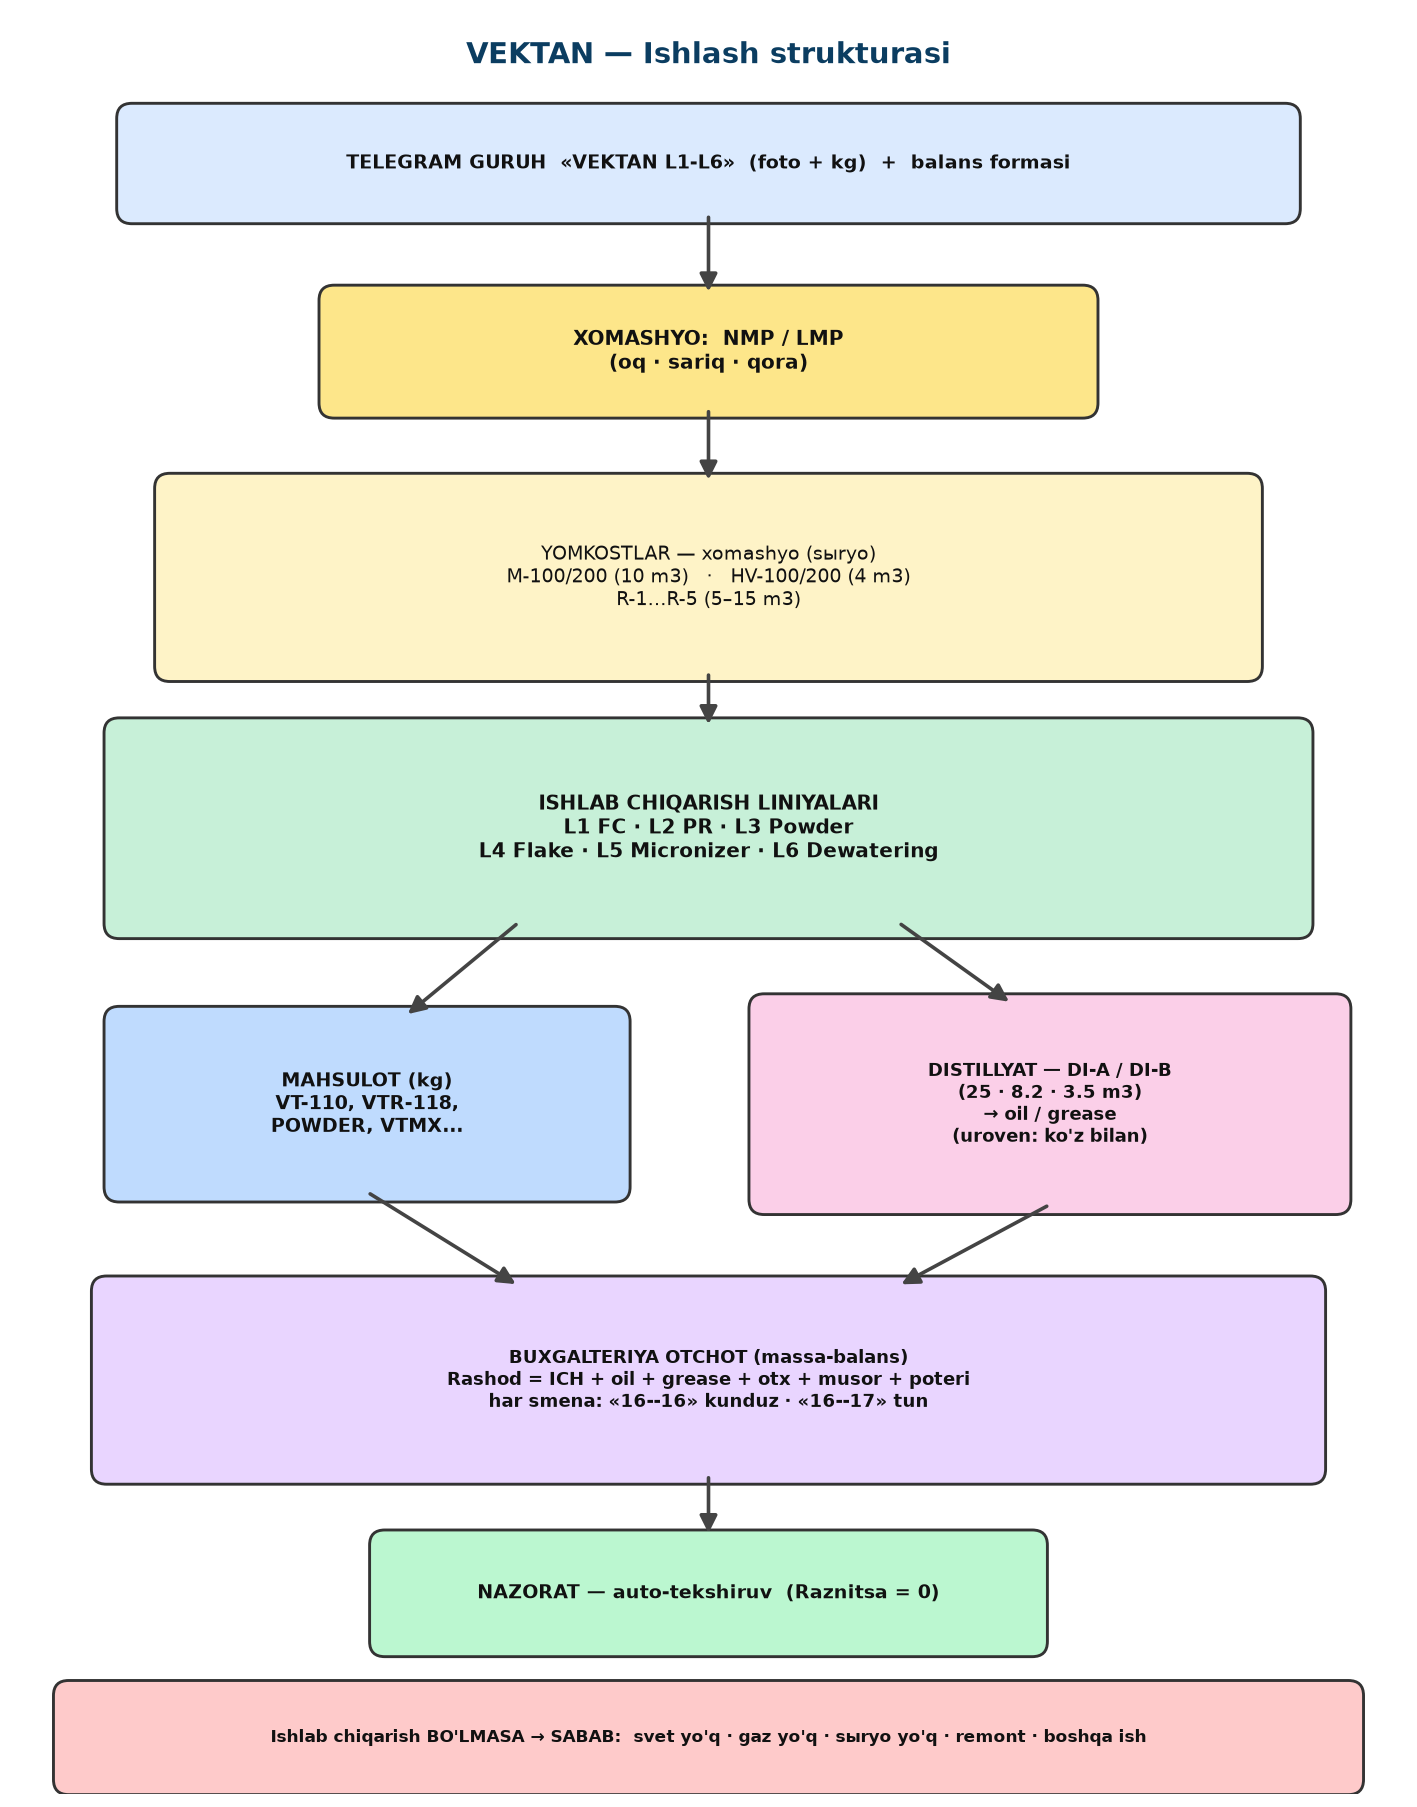
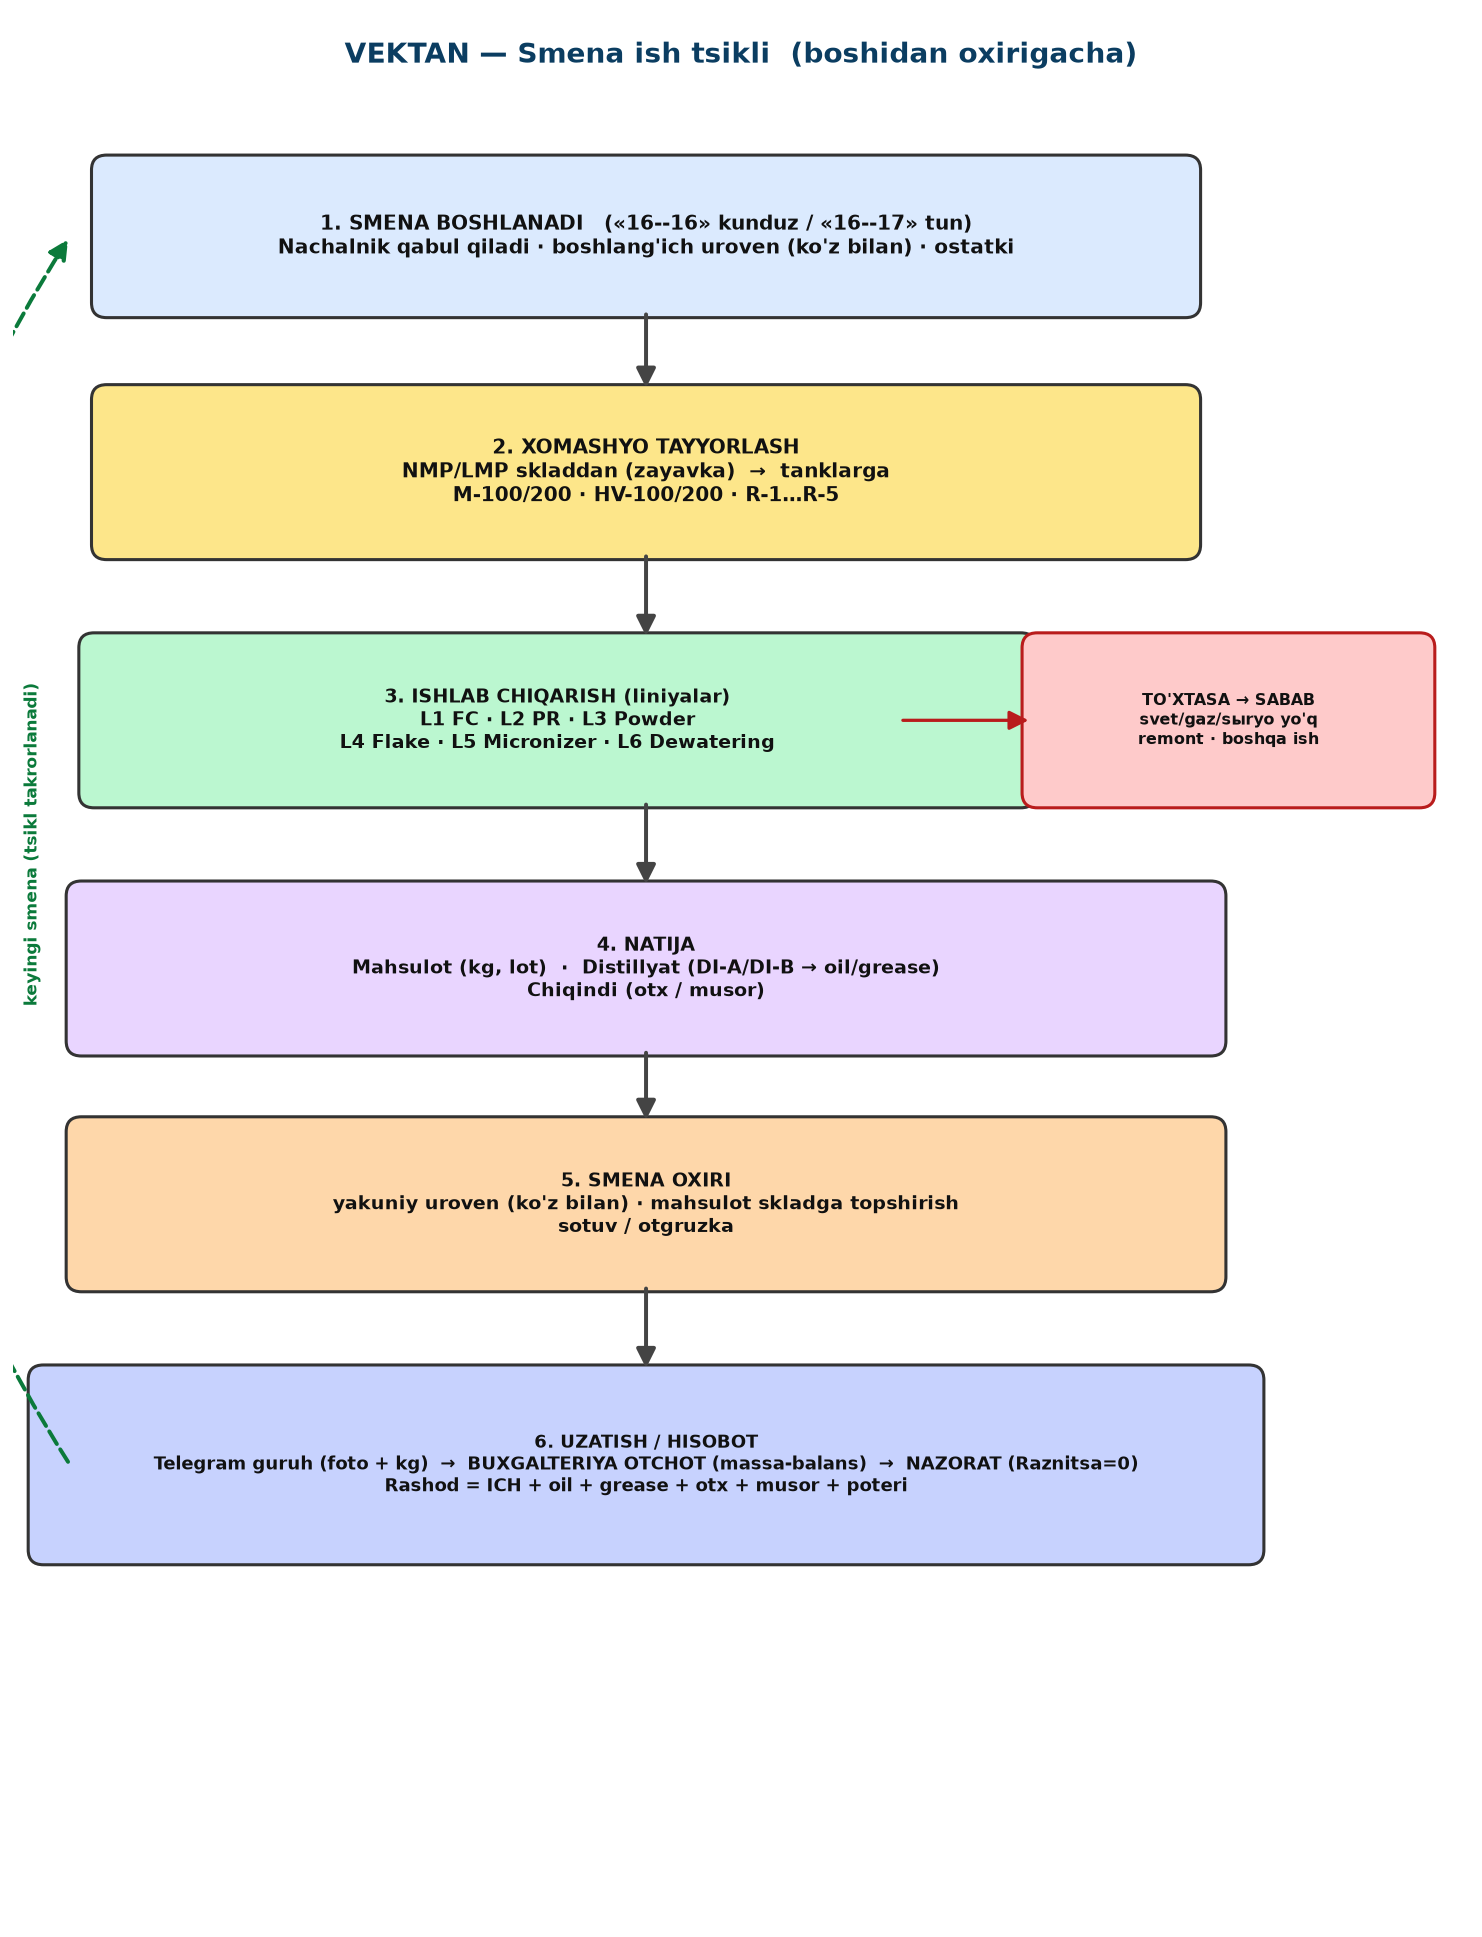
Struktura: smena ish tsikli (boshidan oxirigacha) - diagramma + matn
struktura.png to'liq smena tsikliga yangilandi; CONTEXT ga 6 bosqichli
smena tsikli matni qo'shildi.

Claude-Session: https://claude.ai/code/session_01Mb54Hxbi8GEDinp1ido4Ue

diff --git a/CONTEXT.md b/CONTEXT.md
@@ -41,6 +41,17 @@ Dashboard (liniya yakuni + «Назорат» auto-tekshiruv)
 - **FC=FCS** bir xil marka; ombor balansiga qarab tanlanadi.
 - Samara (НМП/1kg): FC 1.00 · POWDER 1.11 · VTR-114 1.25 · VTS 1.29 · VTR-118 1.52 · Bleached 1.63.
 
+## Smena ish tsikli (boshidan oxirigacha)
+> Vizual: `struktura.png`.
+1. **Smena boshlanadi** («16--16» kunduz / «16--17» tun) — nachalnik qabul qiladi,
+   **boshlang'ich uroven (ko'z bilan)** va ostatkilarni yozadi.
+2. **Xomashyo tayyorlash** — НМП/LMP skladdan (zayavka) → tanklarga (M/HV/R).
+3. **Ишлаб чиqarиш** (L1–L6). To'xtasa → **sabab** (svet/gaz/сырьё yo'q, ремонт, boshqa ish).
+4. **Natija** — mahsulot (kg, lot) · distillyat (DI-A/DI-B → oil/grease) · chiqindi (otx/musor).
+5. **Smena oxiri** — yakuniy uroven (ko'z bilan), mahsulot skladga topshirish, sotuv/otgruzka.
+6. **Uzatish/hisobot** — Telegram (foto+kg) → buxgalteriya otchot (massa-balans) → Назорат.
+→ keyingi smenaga uzatiladi (tsikl takrorlanadi).
+
 ## Простой — ishlab chiqarish to'xtash sabablari
 Smenada ишлаб чиqarиш **bo'lmaganда**, otchotга/izohга **sabab** yoziladi:
 - **Svet yo'q** (elektr uzilgan)
